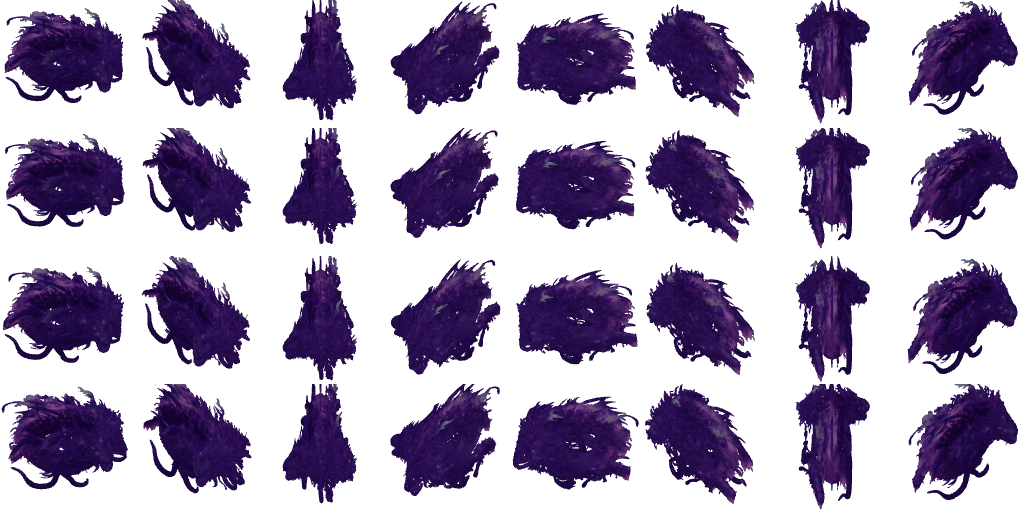
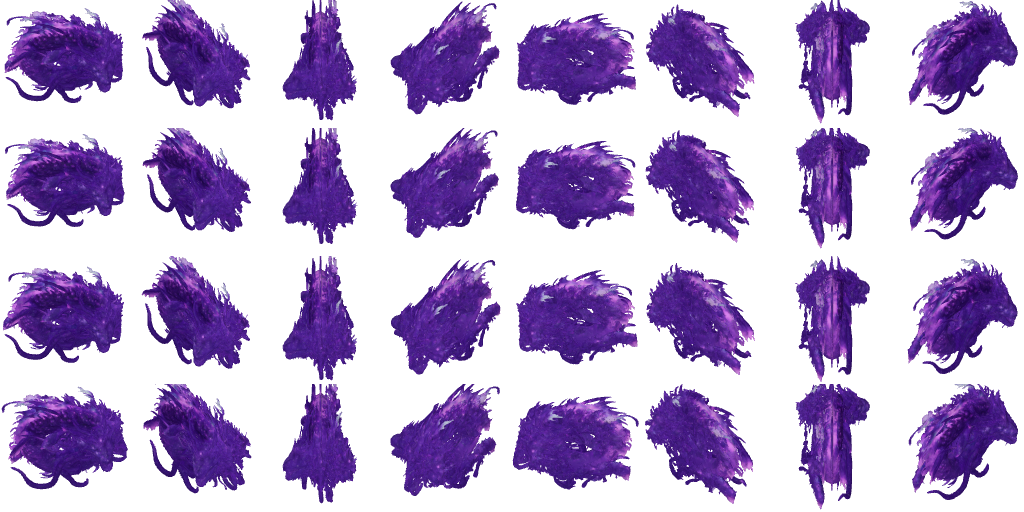
fix: brighter lighting + texture override for 3D creature sprites
- Boost ambient light 0.6→1.0, key light 0.8→1.5, add fill+rim lights
- Disable tone mapping (was darkening output)
- Always apply texture to meshes even when MTL is present
- Re-rendered all 15 spritesheets

diff --git a/client/src/game/scene.ts b/client/src/game/scene.ts
@@ -4,7 +4,7 @@ import type { Net } from "../net";
 import { AgentNPC, AgentResourcesNPC, HermesNPC, feetOf, tileOf, TILE_PX, STATUS_COLORS, agentTextureKey, createHintTag, type HintTag, type Dir } from "./agent";
 import { AGENT_RESOURCES_ID, HERMES_ID, type CharAppearance, type AgentInfo, type LogEntry, type PlatformEvent, PLATFORM_CREDENTIAL_FIELDS, PLATFORM_CATALOG, getPlatformEntry } from "../../../shared/types";
 import { Grid, findPath, type Tile } from "./path";
-import { WorldLayer, LOAD_RADIUS } from "./world";
+import { WorldLayer } from "./world";
 import { BloomPipeline, ColorGradePipeline, DOFPipeline } from "./shaders";
 import { generateAllTextures } from "./textures";
 import { generateCharTexture, generateCharPreviewDataURL, CHAR_FRAMES_PER_ROW } from "./chargen";
@@ -556,29 +556,6 @@ export class OfficeScene extends Phaser.Scene {
     let map: Phaser.Tilemaps.Tilemap;
     let walkable: boolean[][];
 
-    // Pre-compute how many door chunks will be needed so the progress bar
-    // total is stable from the first frame (avoids glitch when phases are
-    // dynamically inserted).
-    // doorX = mapW/2, doorY = mapH + TILE_PX (one tile below office)
-    // offset = { x: 0, y: mapH }, so ty = floor(TILE_PX / TILE_PX) = 1
-    // pcy = floor(1 / CHUNK_SIZE) = 0, so only dy >= 0 chunks are valid
-    const doorChunkCount = (() => {
-      let count = 0;
-      for (let dy = 0; dy <= LOAD_RADIUS; dy++) {
-        for (let dx = -LOAD_RADIUS; dx <= LOAD_RADIUS; dx++) {
-          count++;
-        }
-      }
-      return count;
-    })();
-
-    // Single collapsed phase for all door chunks (replaces per-chunk phases).
-    // The world layer phase fills in the fn and may set skip if all chunks
-    // are already cached.
-    const chunkPhases: Array<{ name: string; fn: () => void | Promise<void>; skip?: boolean }> = [
-      { name: `door chunks (×${doorChunkCount})`, fn: () => {} },
-    ];
-
     const phases: Array<{ name: string; fn: () => void | Promise<void>; skip?: boolean }> = [
       {
         name: "textures & animations",
@@ -1038,60 +1015,18 @@ export class OfficeScene extends Phaser.Scene {
           this.world = new WorldLayer(this, this.store, this.game.registry.get("net"), map.widthInPixels, map.heightInPixels);
           this.world.setOfficeGrid(this.grid);
 
-          // Immediately request all door chunks from the background worker so
-          // generation runs in parallel with the per-chunk phases below.  By the
-          // time each phase fires, the worker will likely have already computed
-          // the tile data — the phase only needs to render (GPU work).
+          // Kick off door chunk generation in the background worker and preload
+          // any cached canvas textures from IndexedDB.  Both are fire-and-forget
+          // — the actual chunk loading happens after this.ready = true so the
+          // player can move immediately.
           const doorChunks = this.world.getDoorChunkList();
           this.world.preGenerateChunks(doorChunks);
-
-          // Try to preload cached canvas textures from IndexedDB (persistent
-          // across page reloads).  Each hit is registered as a Phaser texture
-          // so renderChunk skips painting entirely.
-          this.world.preloadCachedCanvases(doorChunks).then((cacheHits) => {
-            const allCached = cacheHits === doorChunks.length ||
-              doorChunks.every(c => this.textures.exists(this.world.chunkTexKey(c.cx, c.cy)));
-
-            if (allCached) {
-              chunkPhases[0].name = `cached chunks (×${doorChunks.length})`;
-              chunkPhases[0].fn = () => {
-                for (const c of doorChunks) this.world.loadSingleChunk(c.cx, c.cy);
-              };
-            } else {
-              // Single phase: wait for worker results, then load all ready
-              // chunks at once.  Falls back to sync generation for any that
-              // aren't ready after a brief wait.
-              chunkPhases[0].name = `door chunks (×${doorChunks.length})`;
-              chunkPhases[0].fn = async () => {
-                // Give the worker a few frames head start (it was requested
-                // above).  Wait up to ~100ms for pending chunks to arrive.
-                const deadline = performance.now() + 100;
-                while (performance.now() < deadline) {
-                  const allReady = doorChunks.every(c =>
-                    this.world.hasPendingChunk(c.cx, c.cy) ||
-                    this.textures.exists(this.world.chunkTexKey(c.cx, c.cy)));
-                  if (allReady) break;
-                  await new Promise(r => setTimeout(r, 16));
-                }
-                // Load all door chunks — loadChunk handles cached/worker/sync
-                for (const c of doorChunks) {
-                  this.world.loadSingleChunk(c.cx, c.cy);
-                }
-                // Flush render jobs so all chunks are fully painted
-                while (this.world.hasRenderJobs()) {
-                  this.world.processRenderJobsNow();
-                }
-              };
-            }
-          });
+          this.world.preloadCachedCanvases(doorChunks);
         },
       },
-      ...chunkPhases,
       {
         name: "world cleanup & lighting",
         fn: () => {
-          this.world.finishDoorPreload();
-
           // Warm up the particle system so the first biome ambient doesn't cause a
           // stutter.  The first ParticleEmitter render compiles WebGL shaders and
           // allocates GPU buffers.  We create the emitter now and let it render for
@@ -1309,6 +1244,33 @@ export class OfficeScene extends Phaser.Scene {
 
           // Clean up loading overlay
           loadOverlay.remove();
+
+          // Background-load door chunks so the player doesn't hit a freeze
+          // when first walking outside.  Yields between chunks to avoid
+          // frame stalls — the player can move around the office immediately.
+          const preloadDoorChunks = async () => {
+            const doorChunks = this.world.getDoorChunkList();
+            // Wait briefly for the worker to finish generating tile data
+            const deadline = performance.now() + 100;
+            while (performance.now() < deadline) {
+              const allReady = doorChunks.every(c =>
+                this.world.hasPendingChunk(c.cx, c.cy) ||
+                this.textures.exists(this.world.chunkTexKey(c.cx, c.cy)));
+              if (allReady) break;
+              await new Promise(r => setTimeout(r, 16));
+            }
+            for (const c of doorChunks) {
+              this.world.loadSingleChunk(c.cx, c.cy);
+              this.world.processRenderJobsNow();
+              await new Promise(r => setTimeout(r, 0));
+            }
+            // Flush any remaining render jobs
+            while (this.world.hasRenderJobs()) {
+              this.world.processRenderJobsNow();
+            }
+            this.world.finishDoorPreload();
+          };
+          preloadDoorChunks();
         },
       },
     ];

diff --git a/scripts/render-creature-sprites.ts b/scripts/render-creature-sprites.ts
@@ -127,6 +127,7 @@ const RENDER_FN = async (objUrl: string, mtlUrl: string | null, textureUrl: stri
   renderer.setSize(128, 128);
   renderer.setClearColor(0x000000, 0);
   renderer.outputColorSpace = THREE.SRGBColorSpace;
+  renderer.toneMapping = THREE.NoToneMapping;
 
   const scene = new THREE.Scene();
 
@@ -136,14 +137,17 @@ const RENDER_FN = async (objUrl: string, mtlUrl: string | null, textureUrl: stri
   cam.position.set(0, Math.sin(elev) * 2, Math.cos(elev) * 2);
   cam.lookAt(0, 0, 0);
 
-  // Lighting
-  scene.add(new THREE.AmbientLight(0xffffff, 0.6));
-  const keyLight = new THREE.DirectionalLight(0xffffff, 0.8);
+  // Lighting — bright, even illumination so colors pop
+  scene.add(new THREE.AmbientLight(0xffffff, 1.0));
+  const keyLight = new THREE.DirectionalLight(0xffffff, 1.5);
   keyLight.position.copy(cam.position);
   scene.add(keyLight);
-  const fillLight = new THREE.DirectionalLight(0x8899ff, 0.25);
+  const fillLight = new THREE.DirectionalLight(0xffffff, 0.8);
   fillLight.position.set(-1, 0.5, -1);
   scene.add(fillLight);
+  const rimLight = new THREE.DirectionalLight(0xffffff, 0.5);
+  rimLight.position.set(0, -0.3, 1);
+  scene.add(rimLight);
 
   // Load MTL materials first (if available), then OBJ
   const objLoader = new OBJLoader();
@@ -170,11 +174,19 @@ const RENDER_FN = async (objUrl: string, mtlUrl: string | null, textureUrl: stri
   });
   scene.add(model);
 
-  // Apply texture to all meshes if no MTL was provided
-  if (texture && !mtlUrl) {
+  // Apply texture to all meshes — override MTL materials to ensure texture is used
+  if (texture) {
     model.traverse((child: any) => {
       if (child.isMesh) {
-        child.material = new THREE.MeshStandardMaterial({ map: texture });
+        const mat = child.material;
+        if (mat && mat.map !== texture) {
+          mat.map = texture;
+          mat.color = new THREE.Color(0xffffff);
+          mat.needsUpdate = true;
+        }
+        if (!mat) {
+          child.material = new THREE.MeshStandardMaterial({ map: texture });
+        }
       }
     });
   }
